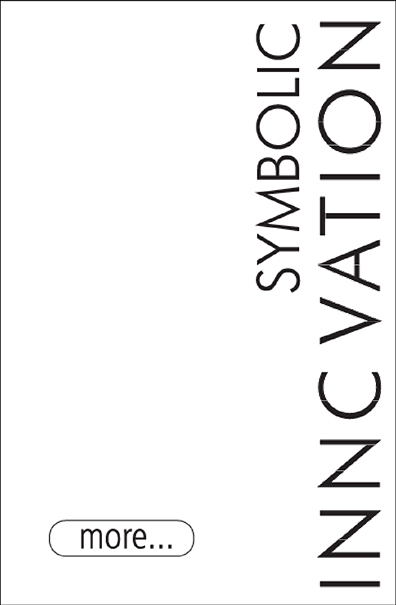
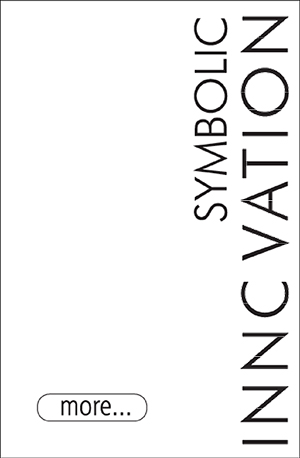
AHHHHH THIS HOVER FFFFF

diff --git a/index.html b/index.html
@@ -110,11 +110,10 @@
         <div id="portfolio" class="text-center">
 
             <h3>PORTFOLIO</h3>
-        
 
-            <div class="row col-xs-10 col-xs-offset-1">
+            <div class="row col-xs-10 col-xs-offset-1 portfolioRow">
 
-                <div id="Symbolic" class="portfolioImages col-sm-6">
+                <div id="Symbolic" class="col-sm-6 portfolioImages img-responsive">
                     
                 </div>
                 
@@ -125,7 +124,7 @@
 
             </div>
             
-            <div class="row col-xs-10 col-xs-offset-1 img-responsive">
+            <div class="row col-xs-10 col-xs-offset-1 img-responsive portfolioRow">
 
                 <div id="Alternative" class="col-sm-6 portfolioImages img-responsive">
 

diff --git a/css/style.css b/css/style.css
@@ -11,9 +11,6 @@ body.container-fluid {
     overflow-x: hidden;
 }
 
-img {
-    width: 100%;
-}
 
 p, a { 
     font-family: 'Inconsolata', sans-serif;
@@ -132,19 +129,14 @@ a {
 
 /*KNYPINSKI HOVER*/
 
-.profile-image:hover {
-  position:absolute;
-  width: 48px;
-  height: 48px;
-  z-index: 100;
-  background: transparent url('../img/1A.gif') no-repeat;
-  cursor: pointer;
-}
-
 .portfolioImages {
     background-repeat: no-repeat;
     height: 566px;
     text-align: center;
+}
+
+.portfolioRow {
+    margin-bottom: 20px;
 }
 
 #Symbolic {
@@ -152,7 +144,7 @@ a {
 }
 
 #Symbolic:hover {
-    background-image: url(../img/1AB.jpg);
+    background-image: url(../img/1AB.png);
 }
 
 #Synthetic {
